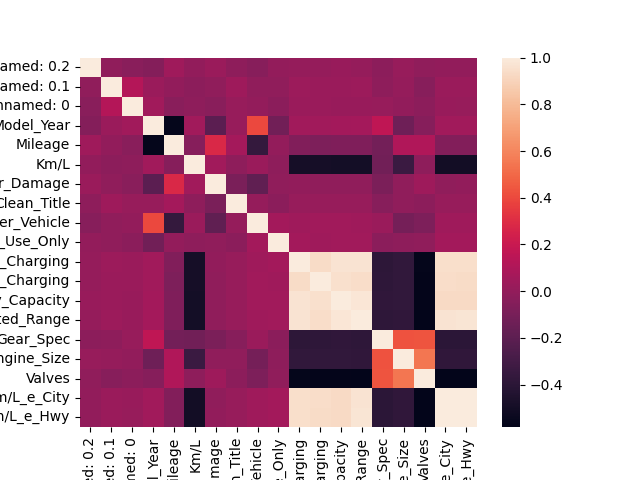
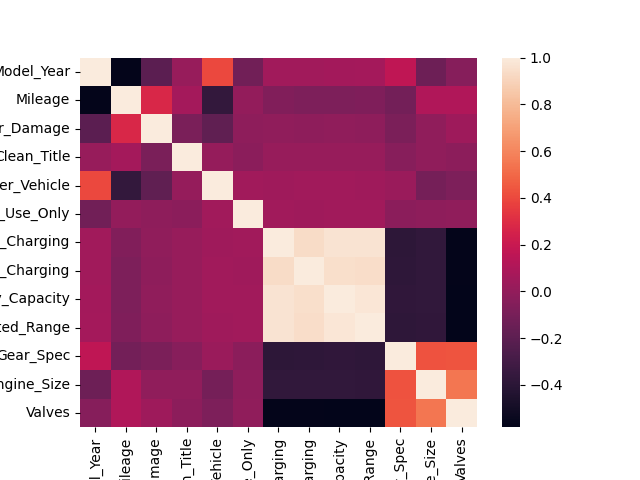
add fastapi code

Changed region(s): [[0.0, 0.0938, 0.75, 1.0], [0.8438, 0.6875, 0.875, 0.7188]]

diff --git a/fastapi_app/app.py b/fastapi_app/app.py
@@ -1,0 +1,46 @@
+from fastapi import FastAPI
+from mlflow.client import MlflowClient
+from pydantic import BaseModel, StrictInt
+import mlflow
+import dagshub
+import pandas as pd
+
+app = FastAPI()
+
+mlflow.set_tracking_uri('https://dagshub.com/akshatsharma2407/cars_ml_test.mlflow')
+dagshub.init(repo_owner='akshatsharma2407', repo_name='cars_ml_test', mlflow=True)
+
+class InputSchema(BaseModel):
+    Model_Year: float
+    Mileage: float
+    Accidents_Or_Damage : float
+    Clean_Title: float
+    One_Owner_Vehicle: float
+    Personal_Use_Only: float
+    Level2_Charging: float
+    Dc_Fast_Charging: float
+    Battery_Capacity: float
+    Expected_Range: float
+    Gear_Spec: float
+    Engine_Size: float
+    Valves: float
+
+def get_latest_model_version(model_name):
+    client = MlflowClient()
+    latest_version = client.get_model_version_by_alias(model_name,'staging' )
+    if not latest_version:
+        latest_version = client.get_model_version_by_alias(model_name, 'None')
+    return latest_version.version if latest_version else None
+
+model_name = 'cars_model'
+
+model_version = get_latest_model_version(model_name)
+
+model_uri = f"models:/{model_name}/{model_version}" 
+model = mlflow.pyfunc.load_model(model_uri)
+
+@app.post('/predict')
+def prediction(user_input: InputSchema):
+    input_df = pd.DataFrame([user_input.model_dump()])  # convert input to DataFrame
+    prediction = model.predict(input_df)                # ML model prediction
+    return {"prediction": prediction.tolist()}          # convert to list for JSON

diff --git a/src/data/data_ingestion.py b/src/data/data_ingestion.py
@@ -38,9 +38,10 @@ def load_data(data_path: str) -> pd.DataFrame:
     try:
         df = (
             pd.read_csv(data_path)
-            .drop(columns=["Image_List"])
+            .drop(columns=["Image_List","Unnamed: 0",'Km/L_e_City','Km/L_e_Hwy','Km/L'])
             .select_dtypes(include=[int, float, bool])
         )
+        print(df.columns)
         logger.debug('data loaded successfully')
         return df
     except FileNotFoundError as e:
@@ -56,8 +57,8 @@ def save_data(
     try:
         data_path = data_path
         os.makedirs(data_path, exist_ok=True)
-        train_data.to_csv(os.path.join(data_path, "train.csv"))
-        test_data.to_csv(os.path.join(data_path, "test.csv"))
+        train_data.to_csv(os.path.join(data_path, "train.csv"),index=False)
+        test_data.to_csv(os.path.join(data_path, "test.csv"),index=False)
         logger.debug('data saved')
     except Exception as e:
         logger.error(f"Got unexpected error in {__file__} -> save data")

diff --git a/src/features/transformations.py b/src/features/transformations.py
@@ -65,8 +65,8 @@ def save_artifacts(
         data_path = data_path
         os.makedirs(data_path, exist_ok=True)
         joblib.dump(scaler, scaler_path)
-        train_processed_data.to_csv(os.path.join(data_path, "train_processed.csv"))
-        test_processed_data.to_csv(os.path.join(data_path, "test_processed.csv"))
+        train_processed_data.to_csv(os.path.join(data_path, "train_processed.csv"),index=False)
+        test_processed_data.to_csv(os.path.join(data_path, "test_processed.csv"), index=False)
         logger.debug('artifacts saved')
     except ModuleNotFoundError:
         logger.error(f'Either of module path is not found {__file__} -> {data_path}, {scaler}')
